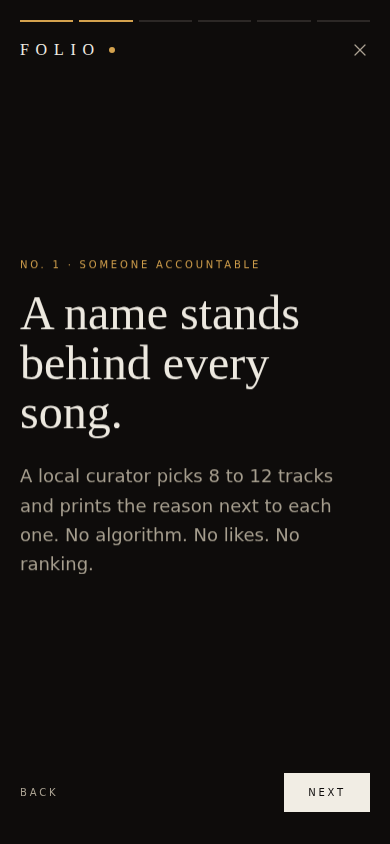
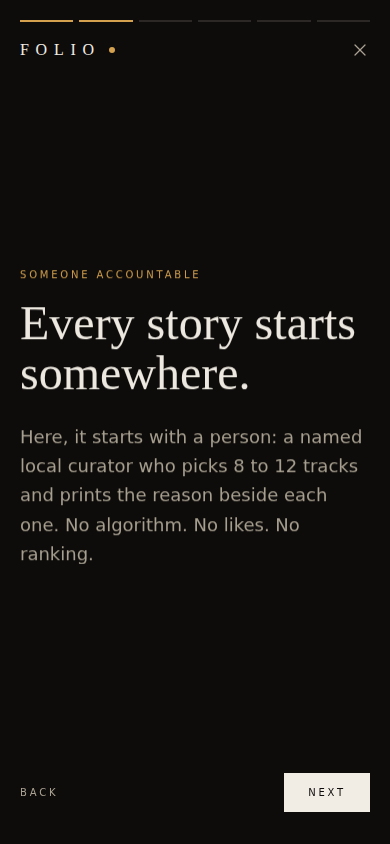
Intro copy rewrite, First Nations songs fact, road to submission

Changed region(s): [[0.0308, 0.3081, 0.9231, 0.6777], [0.6462, 0.3081, 0.6769, 0.3389]]

diff --git a/prototype/src/pages/Welcome.jsx b/prototype/src/pages/Welcome.jsx
@@ -16,11 +16,11 @@ import { cn } from "@/lib/utils";
  * Copy is written like a newspaper kicker and headline, not a settings screen.
  */
 const slidesFor = (city) => [
-  { id: "cover", kicker: `The ${city.name} Edition`, head: "Your city's front page, in music.", body: "One Edition a day. Picked by a named local. Gone at midnight." },
-  { id: "name", kicker: "No. 1 · Someone accountable", head: "A name stands behind every song.", body: "A local curator picks 8 to 12 tracks and prints the reason next to each one. No algorithm. No likes. No ranking." },
-  { id: "new", kicker: "No. 2 · Something new", head: "Meet the artists you haven't heard yet.", body: "Two to four picks are new local acts, set beside names you may already know. The curator backs each newcomer with two sources." },
-  { id: "go", kicker: "No. 3 · Something to do", head: "Then take it out.", body: "Gigs near you, and one fact worth saying out loud when you get there." },
-  ...(city.country_ack ? [{ id: "country", kicker: "On Country" }] : []),
+  { id: "cover", kicker: `The ${city.name} Edition`, head: "Your city's front page, for music.", body: "One Edition a day. Picked by a named local. Gone at midnight." },
+  { id: "name", kicker: "Someone accountable", head: "Every story starts somewhere.", body: "Here, it starts with a person: a named local curator who picks 8 to 12 tracks and prints the reason beside each one. No algorithm. No likes. No ranking." },
+  { id: "new", kicker: "Something new", head: "Hear what you've never heard. Learn what you never knew.", body: "New local artists sit beside the names you know, and every pick carries one fact you can check. Pull the thread on a song you thought you knew." },
+  { id: "go", kicker: "Something to do", head: "Then go get lost in the music.", body: "Gigs near you, and one fact worth saying out loud when you get there." },
+  ...(city.country_ack ? [{ id: "country", kicker: "Did you know?" }] : []),
   { id: "city", kicker: "Last thing" },
 ];
 
@@ -36,7 +36,7 @@ export default function Welcome() {
   const idx = Math.min(i, slides.length - 1);          // the story can shrink when the chosen city has no Country slide
   const last = idx === slides.length - 1;
   const slide = slides[idx];
-  const fact = city ? factOfTheDay(city, cityToday(city.tz)) : null;
+  const fact = city ? factOfTheDay({ ...city, facts: city.facts.filter((f) => f.id !== "au-songs") }, cityToday(city.tz)) : null;  // the Country part already used au-songs
   const touch = useRef(null);
 
   const finish = () => {
@@ -95,16 +95,16 @@ export default function Welcome() {
         {slide.id === "country" && (
           <div data-testid="welcome-country">
             <span className="folio-eyebrow text-folio-saffron">{slide.kicker}</span>
-            <h1 className="folio-serif text-5xl leading-[1.04] text-folio-cream mt-4">You're on {ctx.country_ack.placeName}.</h1>
-            <p className="text-lg text-folio-cream-dim mt-6 leading-relaxed">
-              {ctx.country_ack.placeName} is said to mean “{ctx.country_ack.meaning}”. It is a Traditional Place name from Turrbal and Yuggera Country, and music has been made here for far longer than there has been a city.
-            </p>
-            {ctx.country_ack.meaningSource && (
-              <a href={ctx.country_ack.meaningSource.url} target="_blank" rel="noreferrer" className="relative z-20 inline-flex items-center gap-1 text-xs text-folio-saffron mt-3 hover:underline">
-                Source: {ctx.country_ack.meaningSource.label} <ExternalLink className="w-3 h-3" />
-              </a>
-            )}
-            <div className="mt-6"><CountryAck city={ctx} /></div>
+            {(() => { const f = ctx.facts.find((x) => x.id === "au-songs"); return f ? (
+              <>
+                <h1 className="folio-serif text-3xl leading-[1.15] text-folio-cream mt-4" data-testid="welcome-country-fact">{f.text}</h1>
+                {f.note && <p className="text-xs text-folio-cream-dim/80 mt-3">{f.note}</p>}
+                <a href={f.sourceUrl} target="_blank" rel="noreferrer" className="relative z-20 inline-flex items-center gap-1 text-xs text-folio-saffron mt-3 hover:underline">
+                  Source: {f.sourceLabel} <ExternalLink className="w-3 h-3" />
+                </a>
+              </>
+            ) : null; })()}
+            <div className="mt-8"><CountryAck city={ctx} /></div>
           </div>
         )}
 

diff --git a/prototype/src/lib/cities.js b/prototype/src/lib/cities.js
@@ -46,6 +46,8 @@ export const CITIES = {
       fact("bne-stranglers", "According to band member Hugh Cornwell, The Stranglers' 1979 single 'Nuclear Device (The Wizard of Aus)' was written about Queensland premier Joh Bjelke-Petersen. It reached No. 36 in the UK.", "Wikipedia (W)", "https://en.wikipedia.org/wiki/Nuclear_Device_(The_Wizard_of_Aus)"),
       fact("bne-razar", "Brisbane punk band Razar's 1978 song 'Task Force (Undercover Cops)' took aim at the Queensland Police Special Branch, and police regularly broke up punk gigs in the early 1980s.", "Wikipedia (W)", "https://en.wikipedia.org/wiki/Brisbane_punk_rock"),
       fact("bne-cloudland", "The Cloudland ballroom in Fortitude Valley was demolished overnight on 7 November 1982, without a permit and despite its National Trust listing, to make way for an apartment block.", "Australian Geographic", "https://www.australiangeographic.com.au/history-culture/2025/11/the-beloved-brisbane-ballroom-demolished-in-secret/"),
+      fact("au-songs", "In Aboriginal and Torres Strait Islander cultures, songs carry far more than music: history, family connections, knowledge of the natural world and medicine. Songlines link places through linked songs and ceremonies.", "AIATSIS, Songs of Australia", "https://aiatsis.gov.au/about/connect-us/make-difference/songs-australia", "From across Australia, not specific to Brisbane."),
+      // TODO(team): replace or add a Brisbane-specific fact once a source from a Turrbal or Yuggera/Jagera body or the State Library of Queensland is verified.
       fact("au-yidaki", "The yidaki belongs to the Yolngu people of north-east Arnhem Land and is tied to Yolngu Law and ceremony. 'Didgeridoo' is an introduced generic term, not a precise synonym.", "The Conversation", "https://theconversation.com/friday-essay-the-remarkable-yidaki-and-no-its-not-a-didge-74169", "From across Australia. Yolngu Country is in the Northern Territory, far from Brisbane."),
     ],
   },

diff --git a/submission/07_Engineering/e2e/sandbox.py b/submission/07_Engineering/e2e/sandbox.py
@@ -1,0 +1,28 @@
+from playwright.sync_api import sync_playwright
+B="http://localhost:4174/#"
+ok=True
+def check(n,c,d=""):
+    global ok; ok=ok and bool(c); print(("PASS " if c else "FAIL ")+n+(" "+str(d) if not c else ""))
+with sync_playwright() as pw:
+    b=pw.chromium.launch(); ctx=b.new_context(viewport={"width":390,"height":844}); p=ctx.new_page()
+    reqs=[]; p.on("request",lambda r:reqs.append(r.url))
+    p.goto(B+"/demo"); p.wait_for_timeout(500)
+    check("sandbox page", p.get_by_test_id("sandbox").count()==1)
+    p.get_by_test_id("sandbox-start").click(); p.wait_for_timeout(1500)
+    check("lands on welcome", "welcome" in p.url, p.url)
+    for _ in range(8):
+        if "welcome" not in p.url: break
+        if p.get_by_test_id("welcome-next").is_disabled(): p.get_by_test_id("pick-brisbane").click()
+        p.get_by_test_id("welcome-next").click(); p.wait_for_timeout(300)
+    p.wait_for_timeout(800)
+    check("Today shows demo-mode banner (local data)", "Demo mode" in p.inner_text("body"))
+    p.goto(B+"/register"); p.fill('[aria-label="Your name"]',"Marker"); p.fill('[aria-label="Email"]',"m@x.com"); p.fill('[aria-label="Password"]',"secret123"); p.get_by_role("button",name="Create account").click(); p.wait_for_timeout(700)
+    p.goto(B+"/me?tab=settings"); p.wait_for_timeout(400)
+    check("demo switches visible in sandbox", p.get_by_test_id("demo-admin").count()==1)
+    p.get_by_test_id("demo-admin").click(); p.wait_for_timeout(300)
+    check("Team tab opens Team screen", (p.get_by_test_id("tab-team").click() or True) and p.get_by_test_id("admin-page").count()==1)
+    check("no requests to the shared database", not any("example.invalid" in r for r in reqs), [r for r in reqs if "invalid" in r][:3])
+    p.goto(B+"/me?tab=settings"); p.get_by_test_id("leave-sandbox").click(); p.wait_for_timeout(1500)
+    check("leaving returns to live mode (welcome again)", "welcome" in p.url, p.url)
+    b.close()
+print("ALL OK" if ok else "FAILURES")

diff --git a/submission/07_Engineering/e2e/flows.py b/submission/07_Engineering/e2e/flows.py
@@ -26,7 +26,7 @@ with sync_playwright() as pw:
     for name in ("F1-1b-accountable","F1-1c-new","F1-1d-go"):
         p.get_by_test_id("welcome-next").click(); p.wait_for_timeout(350); shot(p,name)
     p.get_by_test_id("welcome-next").click(); p.wait_for_timeout(350); shot(p,"F1-3-country")
-    check(F,"Brisbane story has an On Country part naming Meanjin with its source", p.get_by_test_id("welcome-country").count()==1 and "Meanjin" in p.get_by_test_id("welcome-country").inner_text() and p.locator('[data-testid="welcome-country"] a').count()==1)
+    check(F,"Brisbane story has a sourced Did-you-know about First Nations songs and the Acknowledgement of Country", p.get_by_test_id("welcome-country").count()==1 and "songs" in p.get_by_test_id("welcome-country-fact").inner_text().lower() and p.locator('[data-testid="welcome-country"] a').count()==1 and p.get_by_test_id("country-ack").count()==1)
     p.get_by_test_id("welcome-next").click(); p.wait_for_timeout(350); shot(p,"F1-2-city")
     check(F,"City step shows Brisbane live", p.get_by_test_id("pick-brisbane").count()==1)
     if p.get_by_test_id("welcome-next").is_disabled(): p.get_by_test_id("pick-brisbane").click()

diff --git a/submission/10_Team/ROAD_TO_SUBMISSION.md b/submission/10_Team/ROAD_TO_SUBMISSION.md
@@ -1,0 +1,30 @@
+# Road to final submission (Team 11)
+
+Written 15 Oct 2026. **Submission is due 3:00 pm Mon 26 Oct (target 12:00; late penalty is one grade per day).** The tradeshow is in Week 12, on Tue 20 or Thu 22 Oct (day to be confirmed with the tutor; do not assume). Shaz is unavailable Mondays and Fridays. Owners: D = Dylan, P = Pranav, S = Shaz.
+
+| Date | Milestone | D | P | S |
+|---|---|---|---|---|
+| Thu 15 Oct | **Live and safe** | Push intro; confirm tradeshow day; send Pranav and Shaz their lists | Set Actions secrets; run `002` then `003` SQL; smoke test; QR code | Poster draft v1 (findings box empty) |
+| Fri 16 Oct | **First real users** | Run evaluation S1 (S is away); ethics workshop with all three | Two-phone simultaneous check on the live site | (away) |
+| Sat 17 Oct | Fix | Make the one change S1 shows; commit | Redeploy; re-run smoke test | Poster v2 with screenshots |
+| Sun 18 Oct | **Evidence in** | Run S2; fill results template with me | Read and sign off architecture and test docs | Fill poster findings box; send to print |
+| Mon 19 Oct | **Last evidence** | Pitch script final | Run S3 (someone outside the course) | (away) |
+| Tue 20 or Thu 22 Oct | **Tradeshow** | Pitch (everyone pitches) | Run the demo and the two-phone moment | Poster on the stand |
+| Wed 21 to Fri 23 Oct | **Documentation** | Wiki: design process (~1,000 words + images, who did what), ethics page (canvas photos) | `README`, architecture, setup, `[REVIEW]` tags cleared for engineering docs | Poster and pitch notes into the repo |
+| Sat 24 Oct | **Freeze** | Re-run all tests; check every `[REVIEW]` tag; final zip | Final deploy; confirm live link and sandbox link | Print and pitch rehearsal (if not done) |
+| Sun 25 Oct | **Check** | Marker's-eye walk through `submission/00_START_HERE` | Open the live link on a clean phone | Proofread poster text and pitch |
+| Mon 26 Oct | **Submit by 12:00** | Upload artefacts (PDF `Team11_3DesignPrototype.pdf`, wiki links, poster, pitch) | Be reachable | Be reachable |
+
+## The five criteria and where each is won
+1. **Innovative project and insight:** one human-picked Edition per city per day, with a named curator and a sourced reason for every pick.
+2. **Prototype (function and simulation, multiple users):** live site, roles, sandbox, two-phone check, 25 unit tests, 31 flow checks.
+3. **Creative pitch and A2 poster:** poster guide, pitch script, QR to the live site.
+4. **Comprehensive documentation:** `submission/` folder, rubric map, decision log, test report.
+5. **Design process overview and ethics:** wiki pages from `DESIGN_PROCESS_OVERVIEW.md` and the Ethical Disclaimer canvas.
+
+## Risks to watch (in order)
+1. No evaluation evidence yet (needs real people by Mon 19 Oct).
+2. Live database not yet confirmed after the role and edition-size migrations.
+3. Tradeshow day not confirmed.
+4. Poster not started until Shaz returns from his unavailable days.
+5. Acknowledgement of Country wording still a draft.

diff --git a/submission/02_Product/ONBOARDING_COPY.md b/submission/02_Product/ONBOARDING_COPY.md
@@ -53,10 +53,10 @@ See the prompt in the project chat. It tells Base44 to edit the existing onboard
 
 ## Update 15 Oct: the story intro (current copy)
 Shown part by part. Tap the right side or Next to go on, the left side or Back to return, or swipe. It ends on Today. Tapping the Folio logo (Today, Me) replays it.
-1. **The {City} Edition.** "Your city's front page, in music." One Edition a day. Picked by a named local. Gone at midnight.
-2. **No. 1 · Someone accountable.** "A name stands behind every song." A local curator picks 8 to 12 tracks and prints the reason next to each one. No algorithm. No likes. No ranking.
-3. **No. 2 · Something new.** "Meet the artists you haven't heard yet." Two to four picks are new local acts, set beside names you may already know. The curator backs each newcomer with two sources.
-4. **No. 3 · Something to do.** "Then take it out." Gigs near you, and one fact worth saying out loud when you get there.
-5. **On Country (Brisbane only).** "You're on Meanjin." Said to mean "the spearhead" (Australia Post, Traditional Place names, quoting Uncle Shannon Ruska), plus the Acknowledgement of Country. **[REVIEW]** The Acknowledgement wording is still a draft: have it checked by an appropriate Aboriginal or Torres Strait Islander person before the tradeshow. No artwork is used: artwork needs permission and credit from an artist or community.
-6. **Last thing.** City greeting, a sourced "Did you know?", and the city picker. Button: "Read {City}'s Edition".
+1. **The {City} Edition.** "Your city's front page, for music." One Edition a day. Picked by a named local. Gone at midnight.
+2. **Someone accountable.** "Every story starts somewhere." Here, it starts with a person: a named local curator who picks 8 to 12 tracks and prints the reason beside each one. No algorithm. No likes. No ranking.
+3. **Something new.** "Hear what you've never heard. Learn what you never knew." New local artists sit beside the names you know, and every pick carries one fact you can check.
+4. **Something to do.** "Then go get lost in the music." Gigs near you, and one fact worth saying out loud when you get there.
+5. **Did you know? (Brisbane)**, with the Acknowledgement of Country. The fact is from AIATSIS (Songs of Australia): songs carry history, family connections, knowledge of the natural world and medicine. It is a national fact and says so on screen. **[REVIEW]** I could not verify a Brisbane-specific fact about Aboriginal music, so none is claimed; the code has a TODO to add one from a Turrbal or Yuggera/Jagera body or the State Library of Queensland. The Acknowledgement wording is still a draft: have an appropriate Aboriginal or Torres Strait Islander person check it before the tradeshow. No artwork is used: artwork needs permission and credit.
+6. **Last thing.** City greeting, a different sourced "Did you know?", and the city picker. Button: "Read {City}'s Edition".
 Test: `07_Engineering/e2e/intro.py`.

diff --git a/submission/04_Design_Process/DECISION_LOG.md b/submission/04_Design_Process/DECISION_LOG.md
@@ -20,7 +20,7 @@ One line per decision that changed the design: what, why, evidence, and what it 
 | 13 Oct 2026 | Delete my account allowed except for curators and the team | Respect for users without breaking the archive | migration 002 | Manual removal for curators |
 | 13 Oct 2026 | Base44 kept as a throw-away look-and-feel prototype; the repo build is the proof of concept | Brief: do not let the prototype become the product | Base44 prototype link | Two codebases; only the repo build is evaluated |
 | 15 Oct | New and upcoming picks need two independent sources, a local note and the curator's attestation (no SoundCloud API, no stream counts) | Protect emerging local artists from non-local or AI-made acts replacing them; keep accountability with a named human; avoid unverified APIs and popularity metrics | Creative Australia *Listening In* (2025): algorithms may make emerging Australian artists harder to find; unit tests and UI flow F4 | Curators can still sign falsely; cannot detect AI music; extra effort per new-artist pick [REVIEW: check with evaluation] |
-| 15 Oct | Intro rewritten as a front-page style story told one part at a time (tap, swipe or Next), ending on Today; the Folio logo replays it; a Brisbane-only On Country part names Meanjin with its source | A single dense screen was a wall of text; first-run stories are a familiar mobile pattern and let each idea land (awareness of what the product is before use). Replay lets a returning user or a marker see it again | Contact-sheet screenshots F1-1 to F1-3; UI test `intro.py` (tap, swipe, back, skip, replay, Seoul) | More taps before first value (skip button added); wording is a hypothesis to test in evaluation Q1 [REVIEW] |
+| 15 Oct | Intro rewritten as a front-page style story told one part at a time (tap, swipe or Next), ending on Today; the Folio logo replays it; a Brisbane-only Did-you-know part (a verified national fact on First Nations songs) sits beside the Acknowledgement of Country | A single dense screen was a wall of text; first-run stories are a familiar mobile pattern and let each idea land (awareness of what the product is before use). Replay lets a returning user or a marker see it again | Contact-sheet screenshots F1-1 to F1-3; UI test `intro.py` (tap, swipe, back, skip, replay, Seoul) | More taps before first value (skip button added); wording is a hypothesis to test in evaluation Q1 [REVIEW] |
 
 ## Decisions still to make
 Ethics framework to apply; how markers access Studio and Team screens; tradeshow day.
